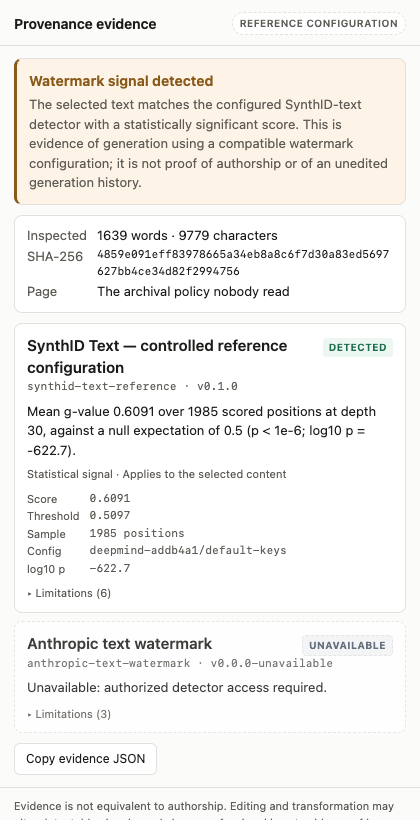
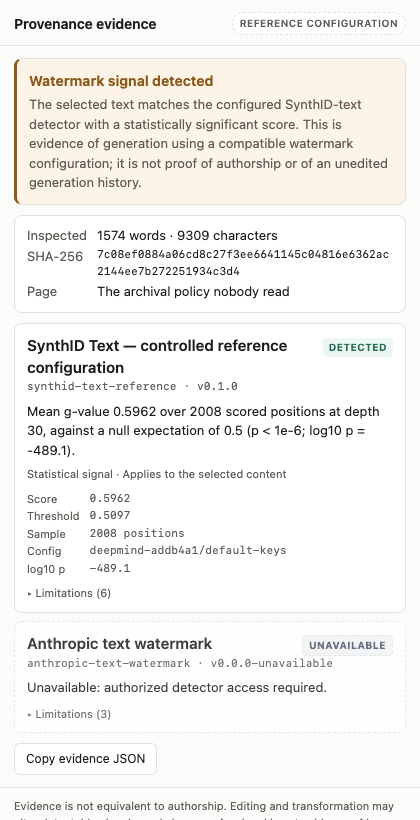
Update docs and screenshot for the gpt2-xl fixture
README numbers and the watermark screenshot re-derive from the
gpt2-xl generation record. fixtures/generated/README.md documents
the new --model flag and revises the prose-quality note now that the
larger model stays on-topic for the whole run.

diff --git a/README.md b/README.md
@@ -56,7 +56,7 @@ Open `fixtures/page/article.html` in Chrome. Then:
 
 | Do this | You should see |
 | --- | --- |
-| Select the whole watermarked passage → **Inspect provenance** | **Watermark signal detected**, score ≈ 0.609 against a threshold of ≈ 0.510 over 1,985 scored positions |
+| Select the whole watermarked passage → **Inspect provenance** | **Watermark signal detected**, score ≈ 0.596 against a threshold of ≈ 0.510 over 2,008 scored positions |
 | Select the unwatermarked control passage | **No supported provenance signal detected** — and a note that this is not evidence of human authorship |
 | Select one short sentence | **Not enough evidence** — never a negative |
 | Right-click the signed image | **Valid Content Credential**, issuer `C2PA Test Signing Cert`, scoped to the asset |
@@ -142,13 +142,15 @@ another**, because they test different schemes.
   like a pseudorandom function. The reference implementation's own README states its hash offers
   no cryptographic guarantees. The significance threshold is set at 1e-6 rather than a
   conventional 0.05 to buy margin against that gap.
-- **The demo passage is 1,639 words**, generated locally from a 1,000-token GPT-2 run — see
-  [`fixtures/generated/README.md`](fixtures/generated/README.md). That's above the 800–1,500 the
-  product brief imagines, because GPT-2's 1,024-token context caps a single continuation near
-  760 words, so reaching this length means concatenating two samples. Prose quality degrades over
-  a run this long with end-of-text suppressed: it stays coherent for a few paragraphs, then
-  drifts topic. That's a property of GPT-2 at this length, not of the watermark or the detector;
-  a modern model would need a matching JS tokenizer to fix, which is out of scope here.
+- **The demo passage is 1,574 words**, generated locally from a 1,000-token `gpt2-xl` run — see
+  [`fixtures/generated/README.md`](fixtures/generated/README.md). That's within the 800–1,500 the
+  product brief imagines. GPT-2's 1,024-token context caps a single continuation near 760 words
+  regardless of model size, so reaching this length means concatenating two samples. Every GPT-2
+  size shares the same tokenizer, so the detector needs no changes to score text from a larger
+  variant — only the generation script's `--model` flag changes. Prose quality still degrades over
+  a run this long with end-of-text suppressed, less so at `gpt2-xl` than at the base model, but
+  it is still a 2019 model; a modern model would need a matching JS tokenizer to fix properly,
+  which is out of scope here.
 - **C2PA validation reports `Valid`, not `Trusted`.** The signature verifies; no trust list is
   consulted. Anyone can sign an asset with a certificate they generated themselves, and the
   panel says so.
@@ -175,7 +177,7 @@ Test coverage maps onto the claims:
   positive at threshold, scope discipline, and that no result ever claims authorship.
 - `fixtures/fixtures.test.ts` — the fixture matrix against the checked-in files, plus a
   differential check that our mean g-value reproduces the Python reference implementation's own
-  score for the same sample (currently within 0.001), and a digest check that no fixture has
+  score for the same sample (currently within 0.0001), and a digest check that no fixture has
   been edited by hand.
 
 ### End-to-end
